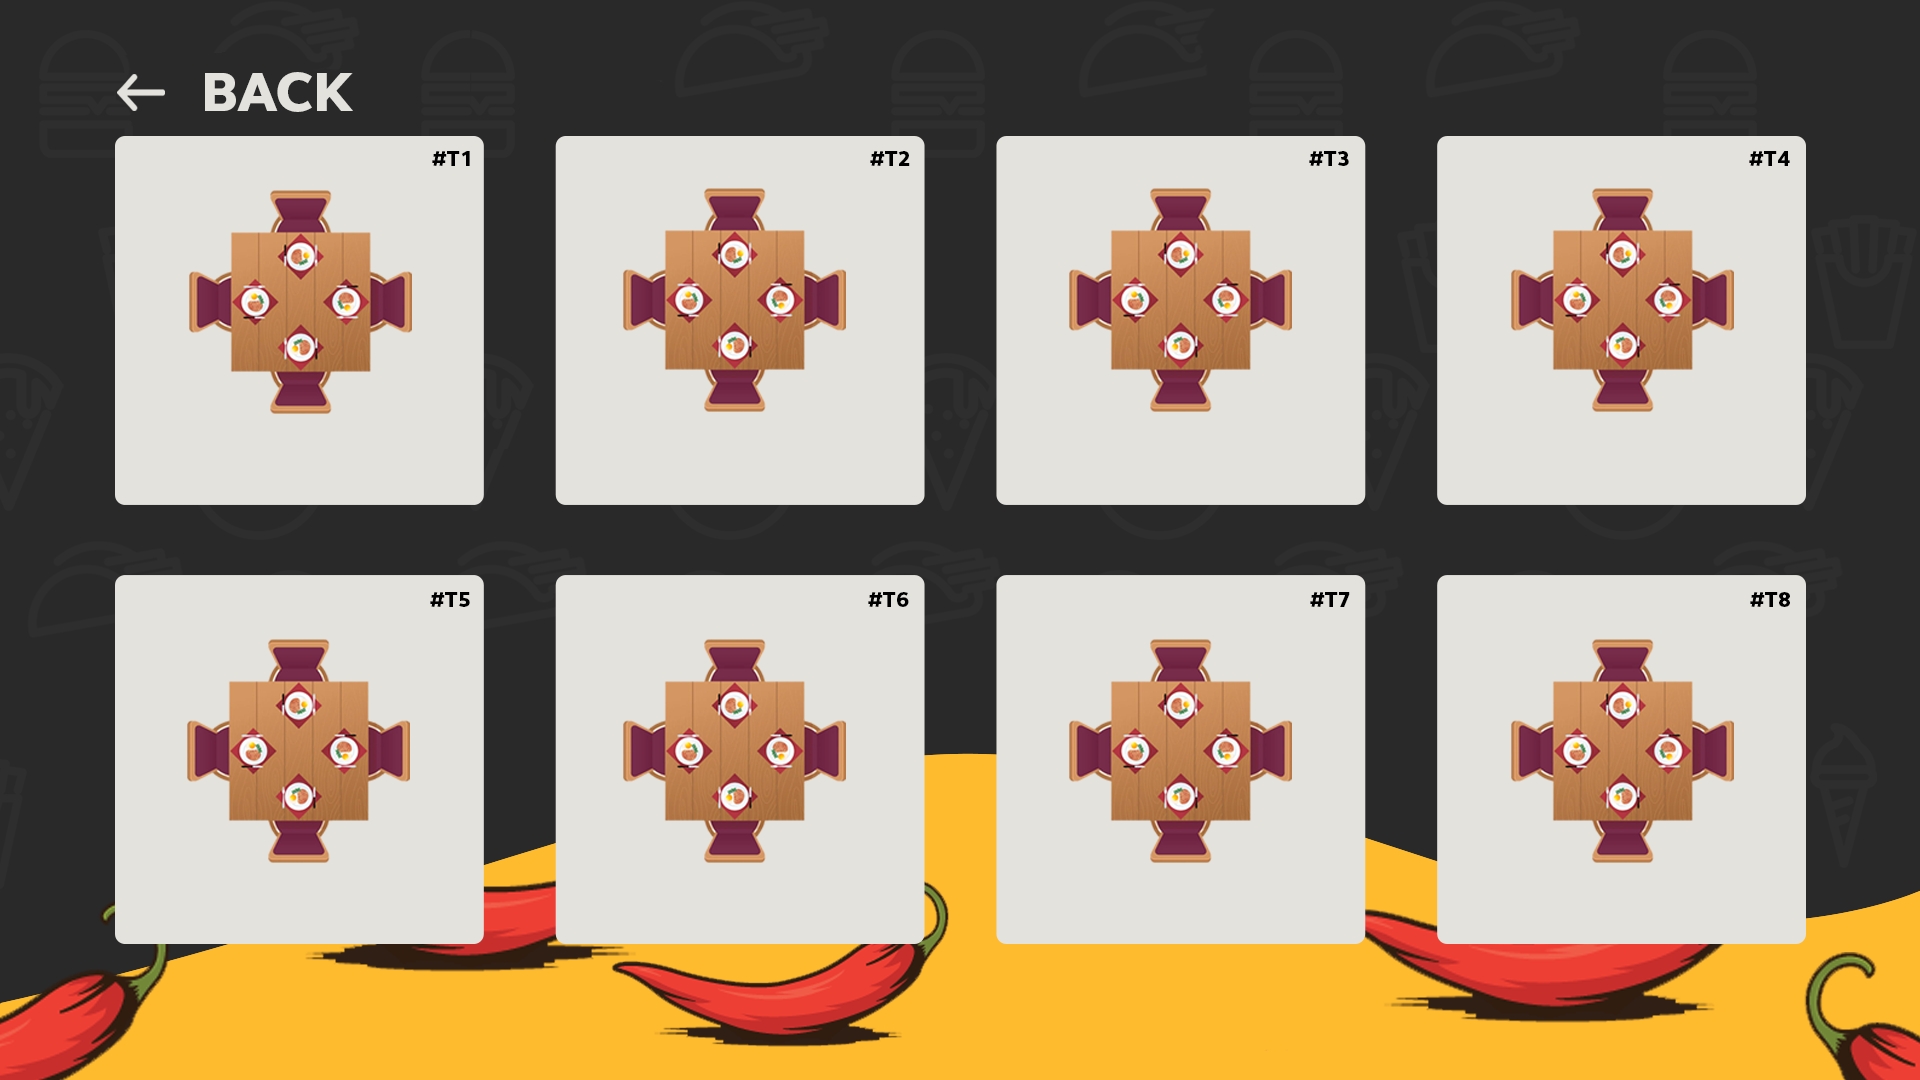
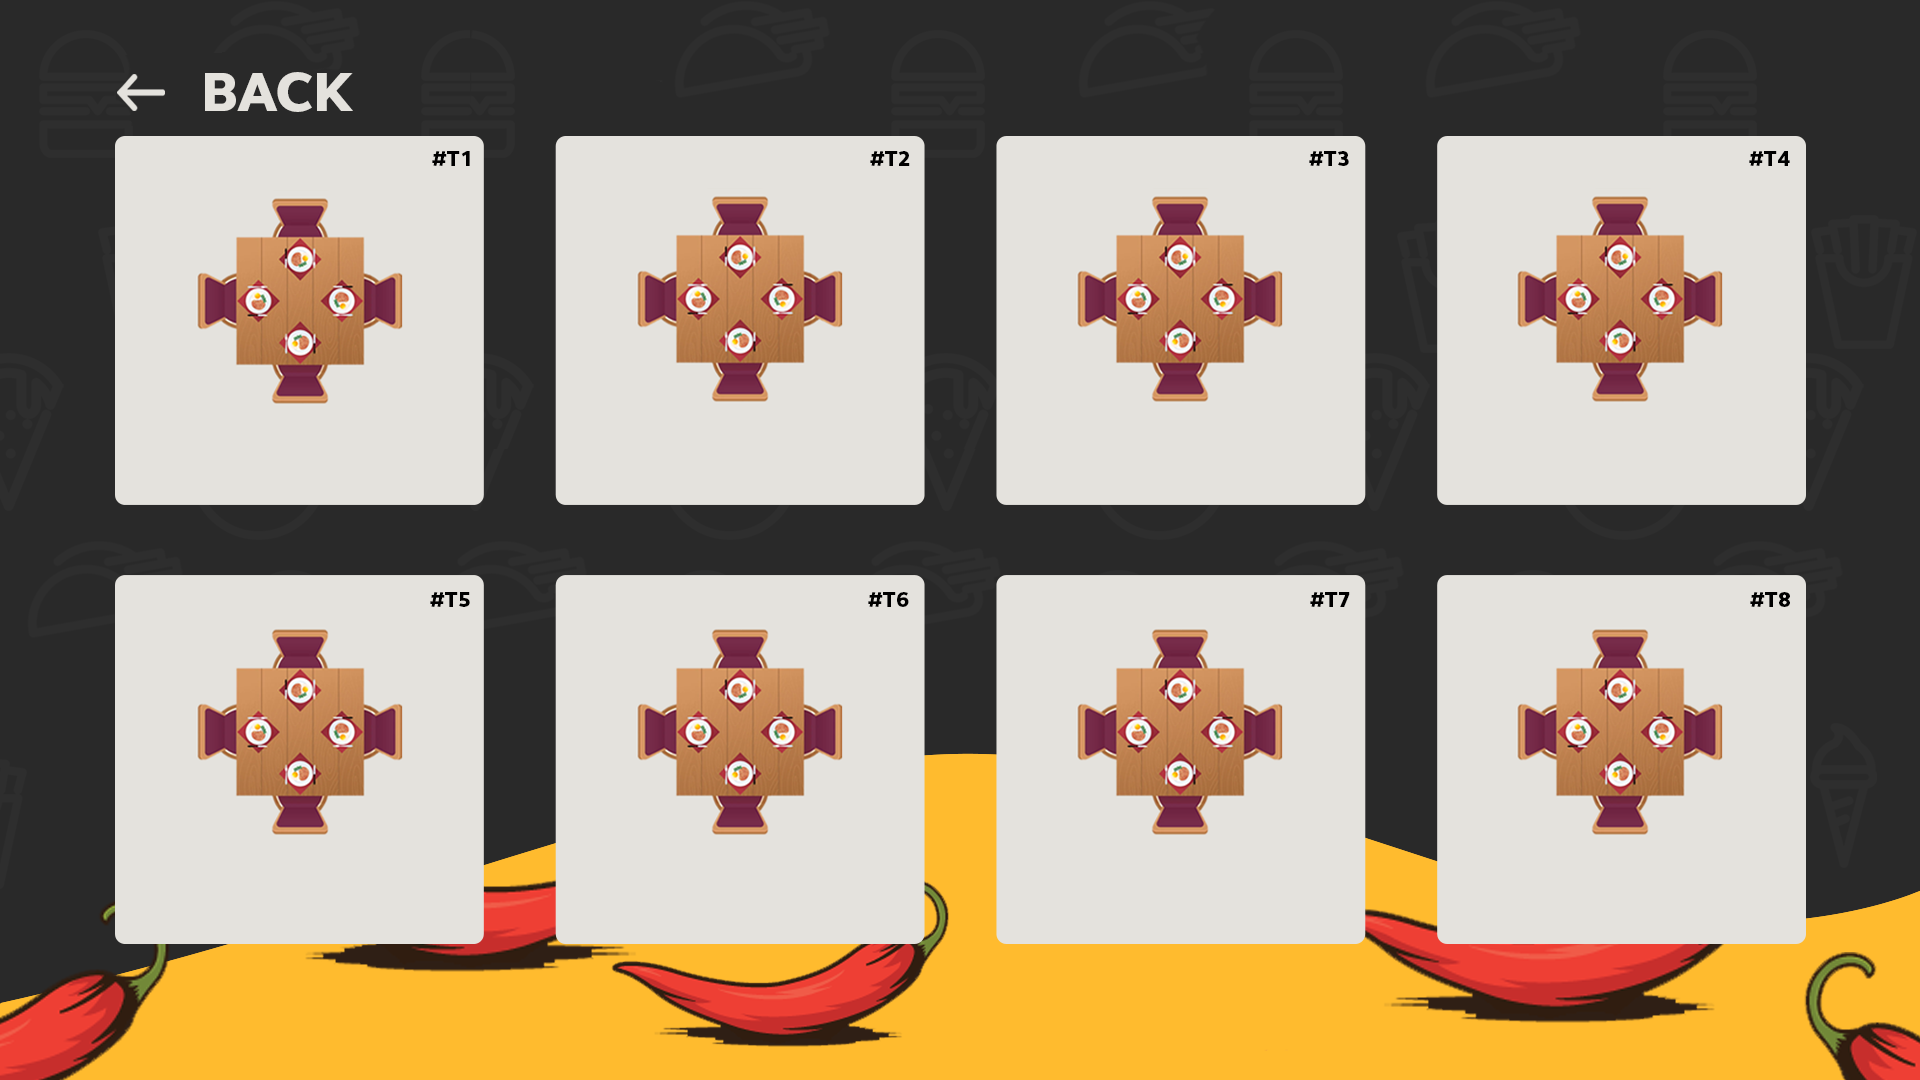
Quelques Changement sur App et Commande v2 my bitch is gay

diff --git a/src/App.java b/src/App.java
@@ -91,7 +91,7 @@ public class App extends Application {
 				    	if (employe.getUsername().equalsIgnoreCase(username) && employe.getPassword().equals(password)) {
 						    switch (employe.getRole()) {
 							    case "Cuisinier" -> openCookPanel(employe);
-		                        case "Serveur" -> openServeurPanel(employe);
+		                        case "Serveur" -> openServeurPanel(employe,employesTravail);
 		                        case "Barman" -> openBartenderPanel(employe);
 						    }
 				        }
@@ -1046,12 +1046,20 @@ public class App extends Application {
 
     
     //---------- Pepper Serveur® | Réservation  ----------//
-    private void openServeurPanel(Employe employe) {
+    private void openServeurPanel(Employe employe, List<Employe> EmployeTravail) {
         // Setup
         App.setTitle("Pepper Serveur® | Réservation");
         ImageView backgroundServeur = new ImageView(new Image("images/BackgroundServer.png"));
         backgroundServeur.fitWidthProperty().bind(App.widthProperty());
         backgroundServeur.fitHeightProperty().bind(App.heightProperty());
+
+        List<String>Serveur = new ArrayList<>();
+        for (int i = 0; i < EmployeTravail.size() ; i++) {
+            if (Objects.equals(EmployeTravail.get(i).getRole(), "Serveur")){
+                Serveur.add(EmployeTravail.get(i).getUsername());
+            }
+        }
+
 
         // Pannel à Gauche
         Button BackButton = new Button("Retour");
@@ -1059,35 +1067,37 @@ public class App extends Application {
         BackButton.setLayoutX(50);
         BackButton.setLayoutY(40);
 
-        GridPane Table1 = createReusableGridPane("Matthieu", "0",employe,1);
+
+
+        GridPane Table1 = createReusableGridPane(Serveur.get(0), "0",employe,1,employesTravail);
         Table1.setLayoutX(55);
         Table1.setLayoutY(86);
 
-        GridPane Table2 = createReusableGridPane("Hadrien", "0",employe,2);
+        GridPane Table2 = createReusableGridPane(Serveur.get(0), "0",employe,2,employesTravail);
         Table2.setLayoutX(243);
         Table2.setLayoutY(86);
 
-        GridPane Table3 = createReusableGridPane("Paul", "0",employe,3);
+        GridPane Table3 = createReusableGridPane(Serveur.get(1), "0",employe,3,employesTravail);
         Table3.setLayoutX(429);
         Table3.setLayoutY(86);
 
-        GridPane Table4 = createReusableGridPane("Axel", "0",employe,4);
+        GridPane Table4 = createReusableGridPane(Serveur.get(1), "0",employe,4,employesTravail);
         Table4.setLayoutX(615);
         Table4.setLayoutY(86);
 
-        GridPane Table5 = createReusableGridPane("MethissYT", "0",employe,5);
+        GridPane Table5 = createReusableGridPane(Serveur.get(2), "0",employe,5,employesTravail);
         Table5.setLayoutX(55);
         Table5.setLayoutY(345);
 
-        GridPane Table6 = createReusableGridPane("Paul", "0",employe,6);
+        GridPane Table6 = createReusableGridPane(Serveur.get(2), "0",employe,6,employesTravail);
         Table6.setLayoutX(243);
         Table6.setLayoutY(345);
 
-        GridPane Table7 = createReusableGridPane("Marco", "0",employe,7);
+        GridPane Table7 = createReusableGridPane(Serveur.get(3), "0",employe,7,employesTravail);
         Table7.setLayoutX(429);
         Table7.setLayoutY(345);
 
-        GridPane Table8 = createReusableGridPane("Paulo", "0",employe,8);
+        GridPane Table8 = createReusableGridPane(Serveur.get(3), "0",employe,8,employesTravail);
         Table8.setLayoutX(615);
         Table8.setLayoutY(345);
 
@@ -1103,7 +1113,7 @@ public class App extends Application {
         App.setScene(new Scene(ServeurPane, 800, 600));
     }
 
-    private GridPane createReusableGridPane(String Serveur, String Client , Employe employe, int num_table) {
+    private GridPane createReusableGridPane(String Serveur, String Client , Employe employe, int num_table, List<Employe> listemploye) {
 
         GridPane gridPaneClient = new GridPane();
 
@@ -1112,12 +1122,12 @@ public class App extends Application {
         Button ButtonClient = new Button("Prendre");
         TextField InputClient = new TextField();
 
-        gridPaneClient.add(ServeurText, 0, 0);
-        gridPaneClient.add(ClientText, 0, 1);
-        gridPaneClient.add(ButtonClient, 0, 2);
-        gridPaneClient.add(InputClient, 1, 2);
-        GridPane.setMargin(ButtonClient, new Insets(137, 0, 0, 0));
-        GridPane.setMargin(InputClient, new Insets(117, 0, 0, -20));
+        VBox textTable = new VBox(ServeurText,ClientText);
+        HBox buttonTable = new HBox(ButtonClient,InputClient);
+        GridPane.setMargin(buttonTable, new Insets(150, 0, 0, 0));
+        buttonTable.setSpacing(10);
+        buttonTable.setAlignment(Pos.CENTER);
+        gridPaneClient.getChildren().addAll(textTable,buttonTable);
 
         // Style
         ServeurText.getStyleClass().add("serveur");
@@ -1151,20 +1161,17 @@ public class App extends Application {
                     orderImageView.setFitWidth(22);
                     orderImageView.setFitHeight(22);
                     orderButton.setGraphic(orderImageView);
-                    orderButton.setOnAction(e1 -> openOrderPanel(employe,tmp_liste,num_table));
+                    orderButton.setOnAction(e1 -> openOrderPanel(employe,tmp_liste,num_table,listemploye));
 
-                    gridPaneClient.getChildren().removeAll(ButtonClient, InputClient);
-
-                    gridPaneClient.add(paymentButton, 0, 2);
-                    gridPaneClient.add(serviceButton,1, 2);
-                    gridPaneClient.add(orderButton, 2, 2);
+                    gridPaneClient.getChildren().removeAll(buttonTable);
+                    HBox buttonServeur = new HBox(paymentButton,serviceButton,orderButton);
+                    GridPane.setMargin(buttonServeur, new Insets(160, 0, 0, 0));
+                    buttonServeur.setSpacing(10);
+                    gridPaneClient.getChildren().addAll(buttonServeur);
 
                     paymentButton.getStyleClass().addAll("serveur-manage-button");
                     serviceButton.getStyleClass().add("serveur-manage-button");
                     orderButton.getStyleClass().add("serveur-manage-button");
-                    GridPane.setMargin(paymentButton, new Insets(134, 0, 0, 0));
-                    GridPane.setMargin(serviceButton, new Insets(134, 0, 0, -60));
-                    GridPane.setMargin(orderButton, new Insets(134, 0, 0, -10));
                 }
             }
         });
@@ -1182,7 +1189,7 @@ public class App extends Application {
 
 
     //---------- Pepper Serveur® | Commander ----------//
-    private void openOrderPanel(Employe employe,ListeCourse tmp_liste,int num_table) {
+    private void openOrderPanel(Employe employe,ListeCourse tmp_liste,int num_table,List<Employe> List_employe) {
         Commande Current_Commande= new Commande(num_table);
     // Setup
     	App.setTitle("Pepper Serveur® | Commander"); 
@@ -1192,7 +1199,7 @@ public class App extends Application {
             
     // Pannel à Gauche
         Button BackButton = new Button("Retour");
-        BackButton.setOnAction(e -> openServeurPanel(employe));
+        BackButton.setOnAction(e -> openServeurPanel(employe,List_employe));
         BackButton.setLayoutX(50);
         BackButton.setLayoutY(55);
 
@@ -1302,7 +1309,7 @@ public class App extends Application {
                 
     // Pannel à Gauche
     Button BackButton = new Button("Retour");
-    BackButton.setOnAction(e -> openServeurPanel(employe));
+    BackButton.setOnAction(e -> openServeurPanel(employe,employesTravail));
     BackButton.setLayoutX(50);
     BackButton.setLayoutY(55);
 
@@ -1392,7 +1399,7 @@ public class App extends Application {
 	PayementButton.setOnAction(new EventHandler<ActionEvent>() {
 		public void handle(ActionEvent event) {
             commande_tmp.clearCommandeFile();
-            openServeurPanel(employe);
+            openServeurPanel(employe,employesTravail);
 	       	validText.setText("✔ payement accepté");
 		}
     });
